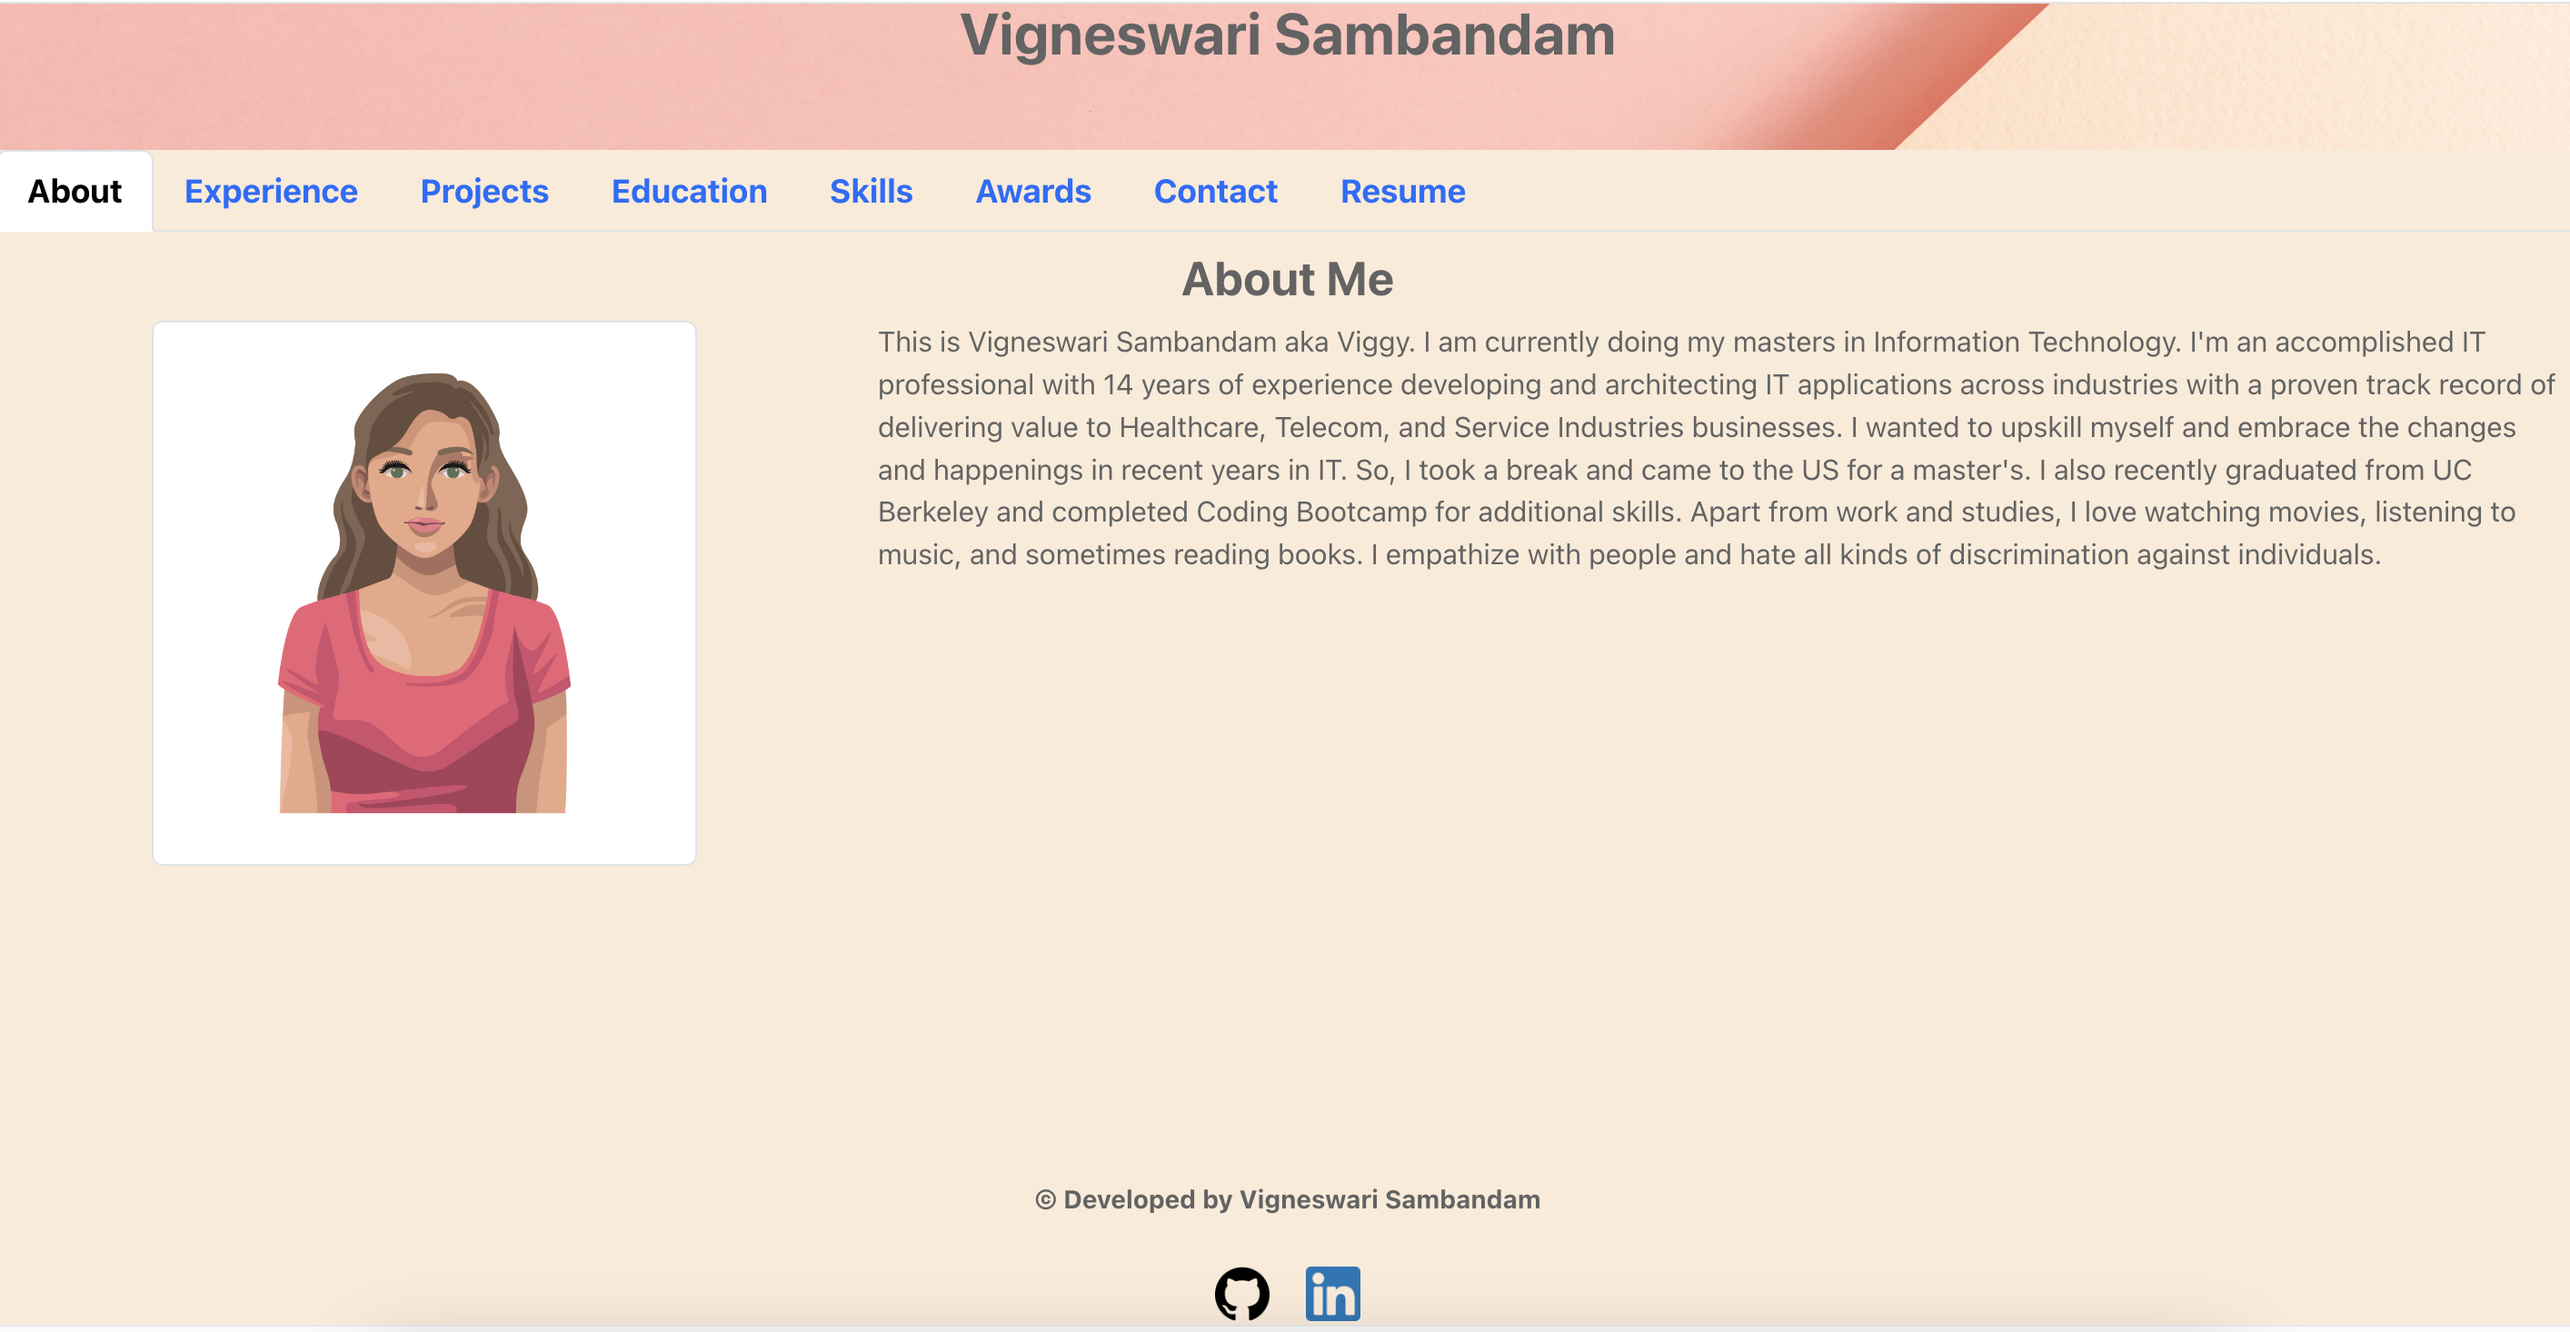
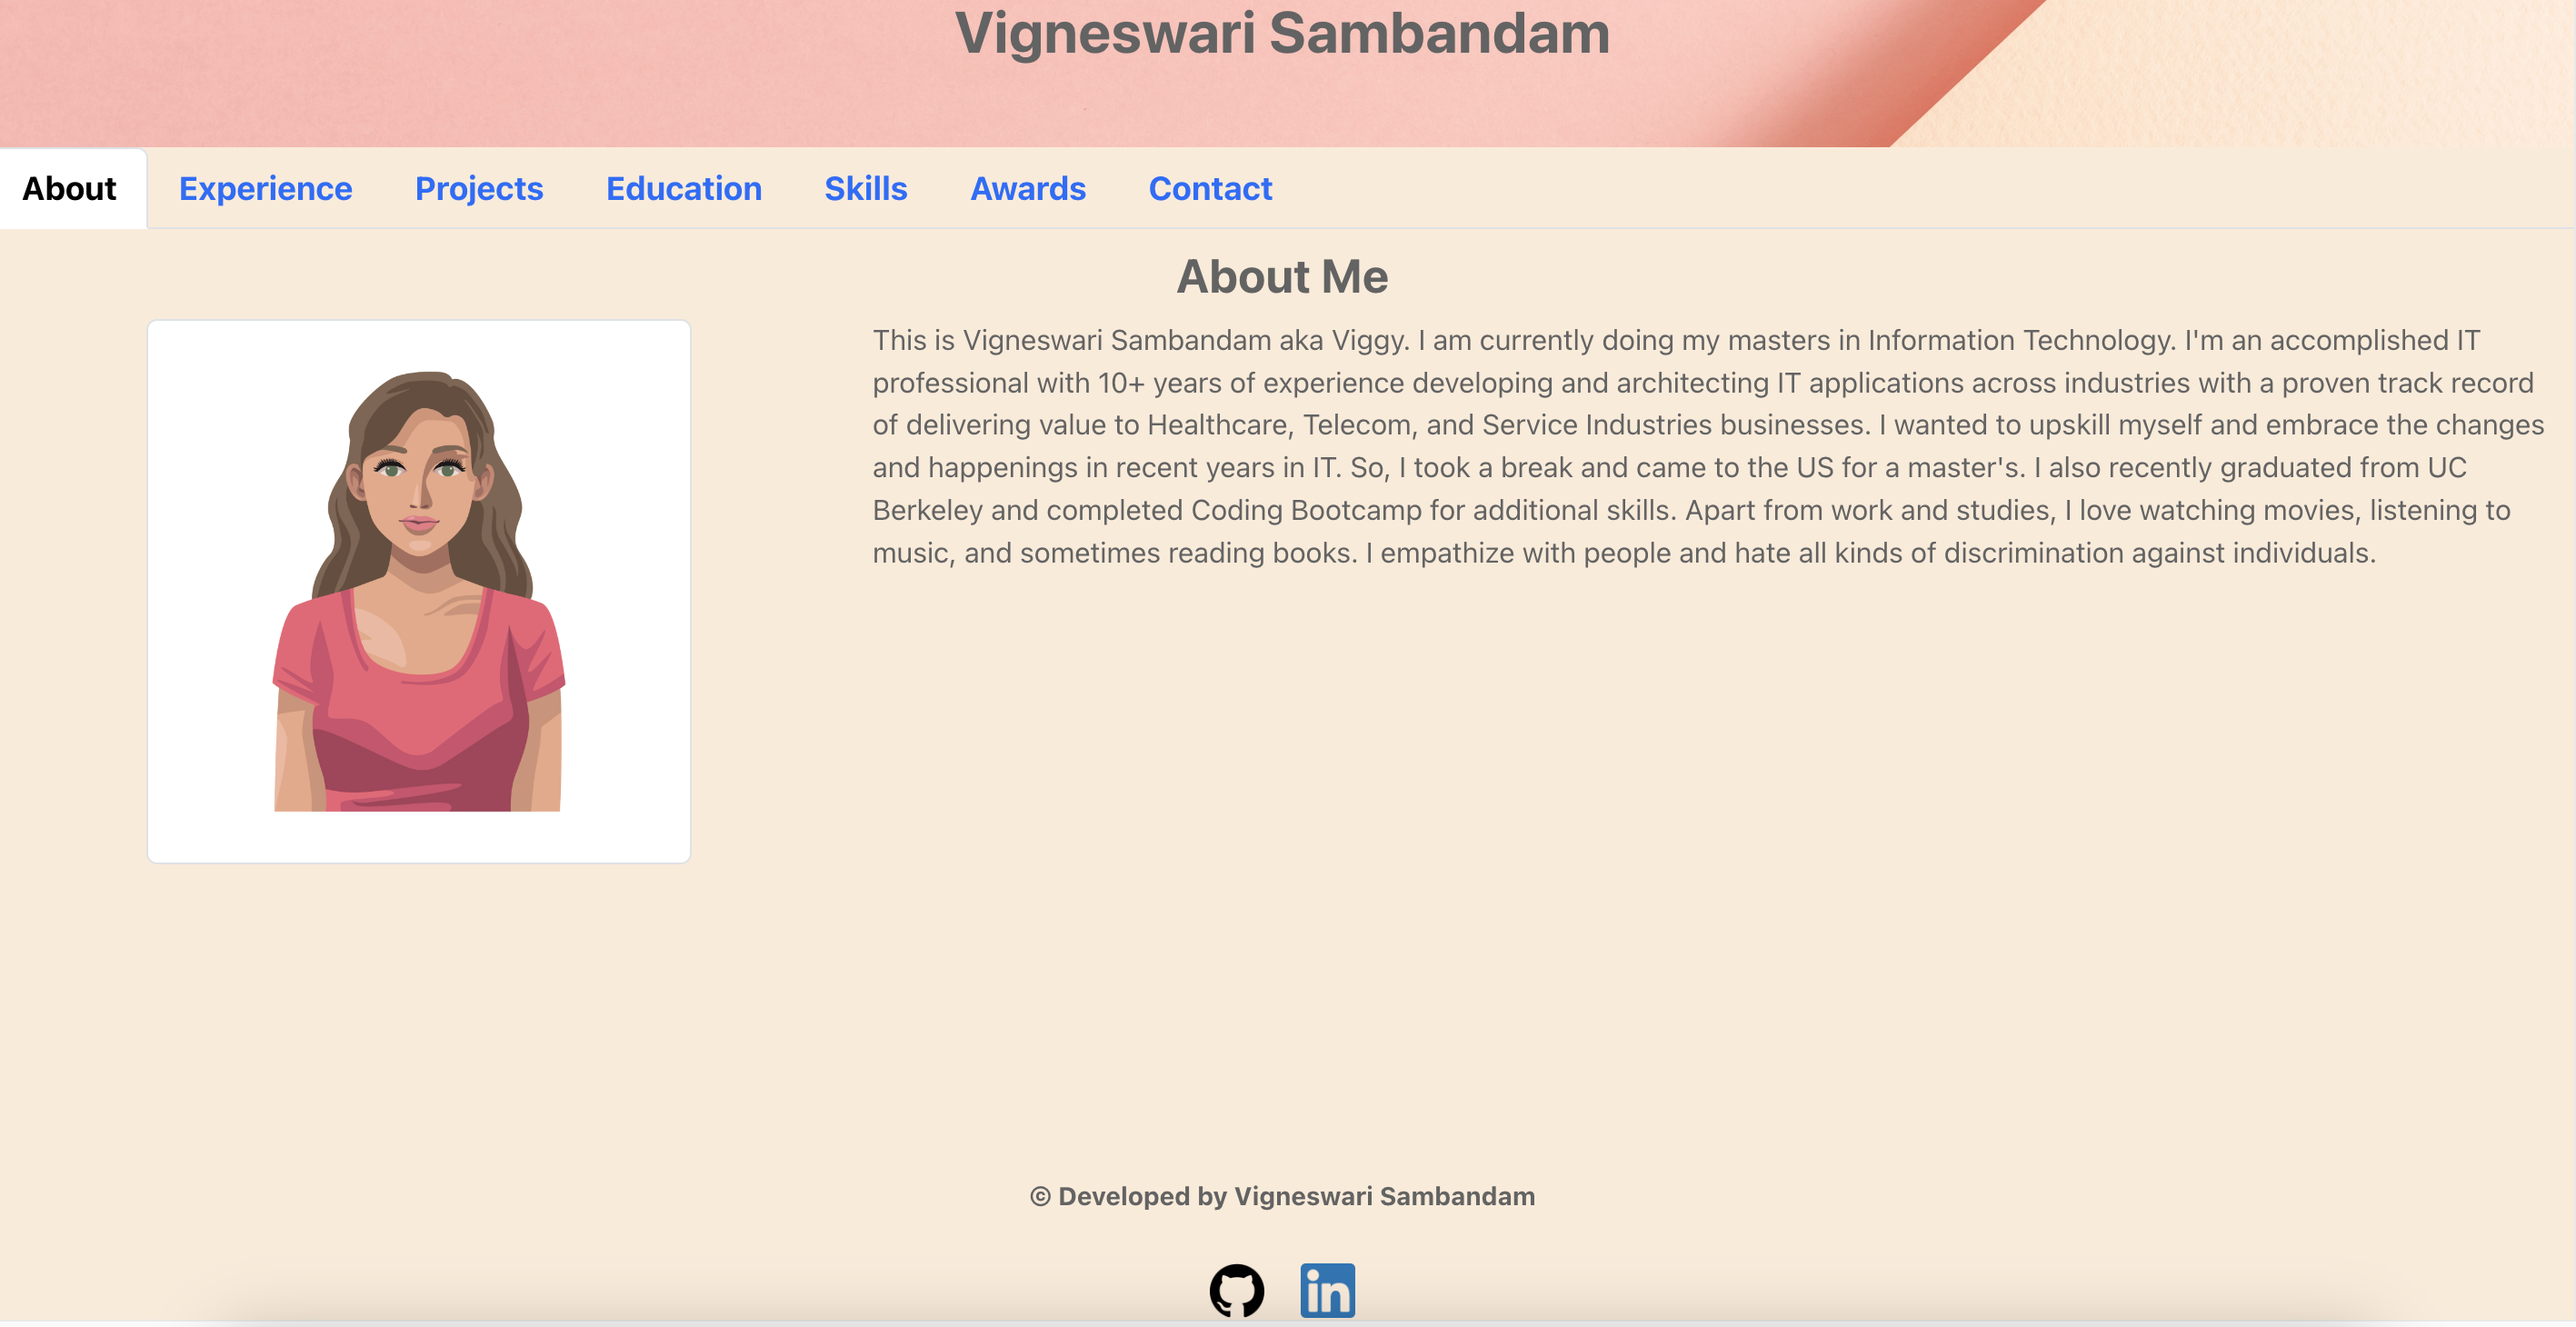
Updated Readme

diff --git a/src/components/NavigationTabs.jsx b/src/components/NavigationTabs.jsx
@@ -41,11 +41,6 @@ function NavigationTabs() {
                          Contact
                     </Link>
                </li>
-               <li className="nav-item">
-                    <Link to="/Resume" className={currentPage === '/Resume' ? 'nav-link active' : 'nav-link'}>
-                         Resume
-                    </Link>
-               </li>
           </ul>
      );
 }

diff --git a/README.md b/README.md
@@ -25,8 +25,6 @@ On successful installation and execution, the application will run successfully 
 
 ![alt text](src/assets/images/Skills.png)
 
-![alt text](src/assets/images/Contact.png)
-
 ## Credits
 
 The below links on react bootstrap documentation were useful in understanding the usage of the components
